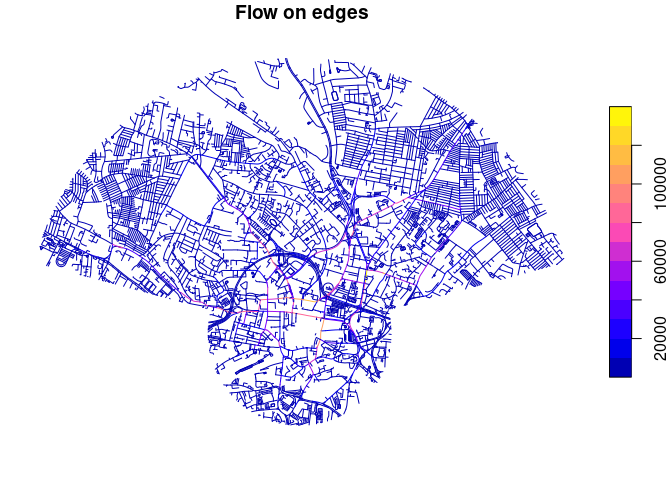
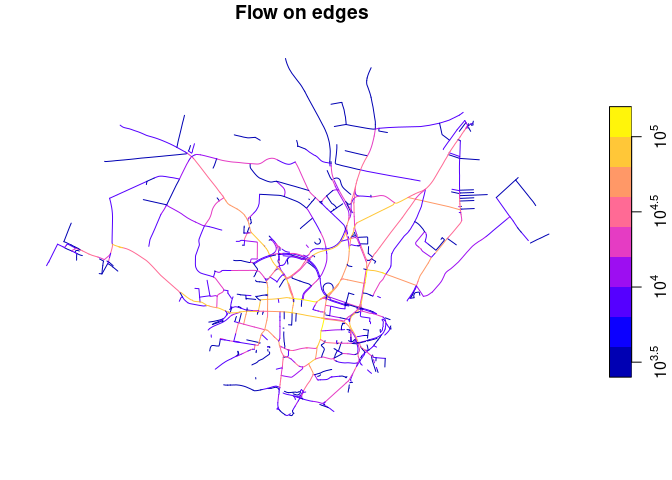
Logz

diff --git a/README.md b/README.md
@@ -227,7 +227,9 @@ sfn_aon = left_join(
 #> ℹ Row 1989 of `y` matches multiple rows in `x`.
 #> ℹ If a many-to-many relationship is expected, set `relationship =
 #>   "many-to-many"` to silence this warning.
-plot(sfn_aon["flow"], main = "Flow on edges")
+plot(sfn_aon["flow"], main = "Flow on edges", logz = TRUE)
+#> Warning in classInt::classIntervals(v0, min(nbreaks, n.unq), breaks, warnSmallN
+#> = FALSE): var has infinite values, omitted in finding classes
 ```
 
 <img src="man/figures/README-traffic-1.png" width="100%" />
